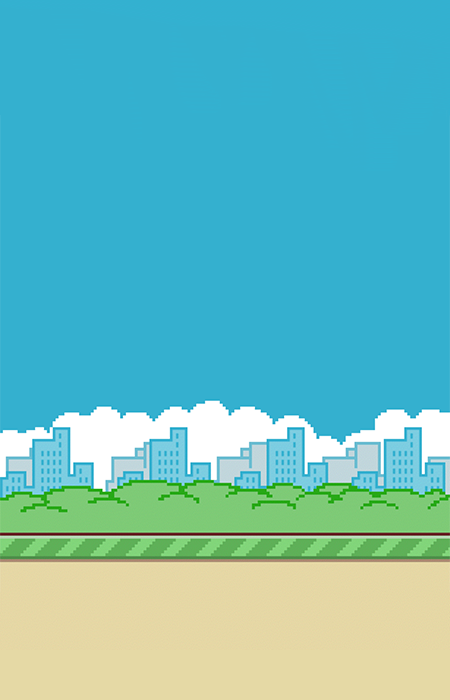
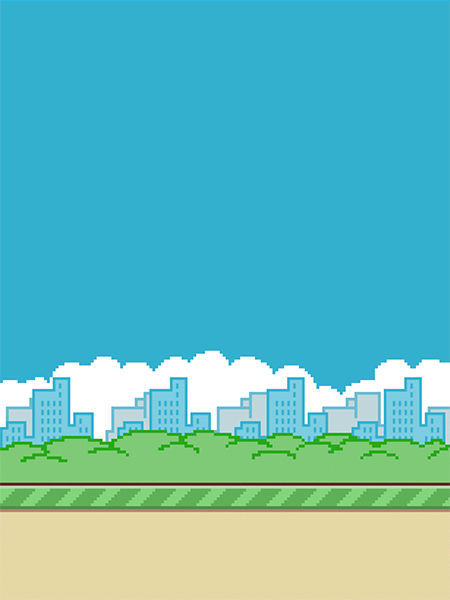
made changes to remove canvas objects and improve background height.

Changed region(s): [[0.0, 0.57, 1.0, 0.87]]

diff --git a/js/main.js b/js/main.js
@@ -3,14 +3,14 @@ window.onload = function () {
     newgame = document.getElementById('newgame');
 
     //sizing canvas
-    c.width = window.innerWidth-18;
-    c.height = 700;
+    c.width = window.innerWidth;
+    c.height = window.innerHeight;
 
     const ctx = c.getContext('2d');
     
     const environment = new Environment(c, ctx);
     
-    const bird = new Bird(300, 300, ctx);
+    const bird = new Bird(250, 300, ctx, c);
     const theme = new Audio();
     theme.src = "./sounds/theme.mp3";
     
@@ -53,9 +53,7 @@ window.onload = function () {
         if (bird.dead){
             theme.pause();
             theme.currentTime = 0;
-            drawGameOver(ctx, c);
-            newgame.style.display = 'inline';
-            
+            drawGameOver(ctx, c);           
         } 
          
         window.requestAnimationFrame(gameLoop);
@@ -76,7 +74,11 @@ function drawGameOver(ctx, c) {
     gameover.classList.add('gameover-container');
     gameover.setAttribute("style", `position: absolute; z-index: 99; top: ${(c.height/2) - 150}px; left: ${(c.width/2)-150}px; width: 300px; height: 300px; background: url(./images/flappygameover.jpg);`);
     document.body.appendChild(gameover);
-    
+    newgame.style.display = 'inline'; 
+    environment.remove();
+    bird.remove();
+    pipes.remove();
+    pipeset.remove();
 }
 
 function newGame(){

diff --git a/index.html b/index.html
@@ -11,7 +11,7 @@
     #newgame{
         text-align: center; 
         position: absolute; 
-        top: 400px; 
+        top: 420px; 
         left: 50%;
         transform: translateX(-50%) translateY(-50%);
         padding: 10px;
